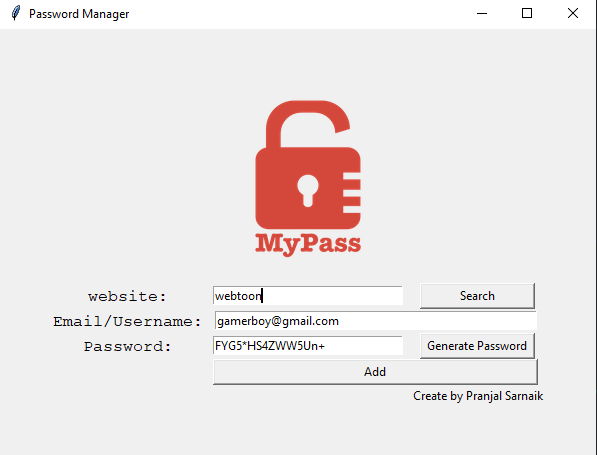
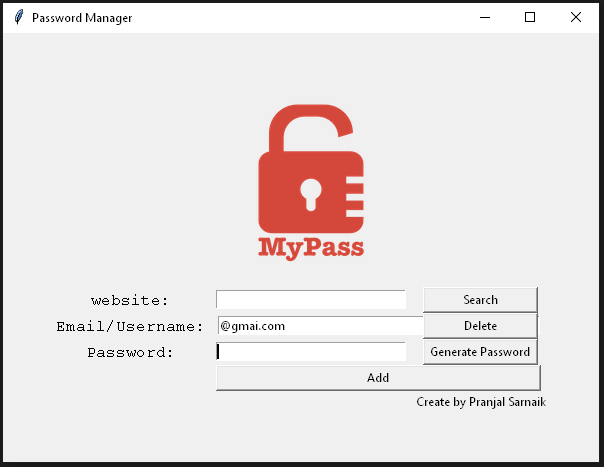
added delete feature and data

diff --git a/app.py b/app.py
@@ -40,11 +40,18 @@ Python | Tkinter | JSON | File Handling | Clipboard Handling | Error Handling
 
 FONT_NAME = "Courier"
 
+def clean_up():
+    website_entry.focus()
+    website_entry.delete(0, "end")
+    password_entry.delete(0, "end")
+    email_username_entry.delete(0, "end")
+    email_username_entry.insert(0, "@gmail.com")
 
-# ---------------------------- PASSWORD GENERATOR ------------------------------- #
+# ------------------------------------------ PASSWORD GENERATOR ------------------------------------------ #
 
 
 def generate_password():
+    """This function generates strong password"""
     password_entry.delete(0, END)
 
     letters = ['a', 'b', 'c', 'd', 'e', 'f', 'g', 'h', 'i', 'j', 'k', 'l', 'm', 'n', 'o', 'p', 'q', 'r', 's', 't', 'u',
@@ -59,24 +66,17 @@ def generate_password():
     password_list += [choice(numbers) for _ in range(randint(2, 4))]
     shuffle(password_list)
 
-    # Method 2 for creating random password list using for loop
-    # password_letters = [choice(letters) for _ in range(randint(8, 10))]
-    # password_symbols = [choice(symbols) for _ in range(randint(2, 4))]
-    # password_numbers = [choice(numbers) for _ in range(randint(2, 4))]
-    # password_list = password_letters + password_symbols + password_numbers
-    # shuffle(password_list)
-
     password = "".join(password_list)
 
     password_entry.insert(0, f"{password}")
     pyperclip.copy(password)
 
 
-# ---------------------------- SAVE PASSWORD ------------------------------- #
+# ------------------------------------------ SAVE PASSWORD ------------------------------------------ #
 
 
 def save():
-    website = website_entry.get()
+    website = website_entry.get().strip().title()
     password = password_entry.get()
     email = email_username_entry.get()
     new_data = {
@@ -89,10 +89,6 @@ def save():
     if len(website) == 0 or len(password) == 0:
         messagebox.showinfo(title="😿 mmm", message="Hi! Please enter all required details in fields.")
     else:
-        # Asking user to cross-check the details
-        # is_ok = messagebox.askokcancel(title="Website", message=f"These are the details entered: "
-        #                                               f"\nEmail: {email} \nPassword: {password} \nIs it ok to save?")
-
         # Saving data to data.json file
         is_ok = True
         if is_ok:
@@ -110,22 +106,19 @@ def save():
                     # Saving the updated data: writing
                     json.dump(data, data_file, indent=4)
             finally:
-                website_entry.focus()
-                website_entry.delete(0, "end")
-                password_entry.delete(0, "end")
+                clean_up()
 
 
-# ----------------------- SEARCH INFORMATION -------------------------- #
+# ------------------------------------------ SEARCH INFORMATION ------------------------------------------ #
 
 def search_info():
-    website = website_entry.get()
+    website = website_entry.get().strip().title()
 
     if len(website) != 0:
         try:
             with open("data.json") as data_file:
                 data = json.load(data_file)
-                # print(data)
-                # print(type(data))
+
         except FileNotFoundError:
             messagebox.showerror(title="Error", message="No Data File Found")
         else:
@@ -142,8 +135,38 @@ def search_info():
     else:
         messagebox.showinfo(title="Empty Website Field", message="Please enter something in Website field.")
 
+# ------------------------------------------ DELETE INFORMATION ------------------------------------------ #
 
-# ---------------------------- UI SETUP ------------------------------- #
+def delete_info():
+    website = website_entry.get().strip().title()
+
+    if len(website) != 0:
+        try:
+            with open("data.json") as data_file:
+                data = json.load(data_file)
+        except FileNotFoundError:
+            messagebox.showerror(title="Error", message="No data file found.")
+        else:
+            data_found = False
+            if website in data:
+                data_found = True
+                confirmation = messagebox.askyesno(
+                    title="Confirm delete", 
+                    message="Are you sure you want to delete this entry?"
+                    )
+                if confirmation:
+                    data.pop(website, None)
+                    with open("data.json", "w") as data_file:
+                        json.dump(data, data_file, indent=4)
+
+                    clean_up()
+            if not data_found:
+                messagebox.showinfo(title=website, message=f"No data found for '{website}'.")
+    else:
+        messagebox.showinfo(title="Empty Website Field", message="Please enter website name in website field.")
+
+
+# ------------------------------------------ UI SETUP ------------------------------------------ #
 
 # Creating UI using tkinter module
 window = Tk()
@@ -186,5 +209,8 @@ add_button.grid(column=1, row=4, columnspan=2)
 
 search_button = Button(text="Search", width=15, command=search_info)
 search_button.grid(column=2, row=1)
+
+delete_button = Button(text="Delete", width=15, command=delete_info)
+delete_button.grid(column=2, row=2)
 
 window.mainloop()
